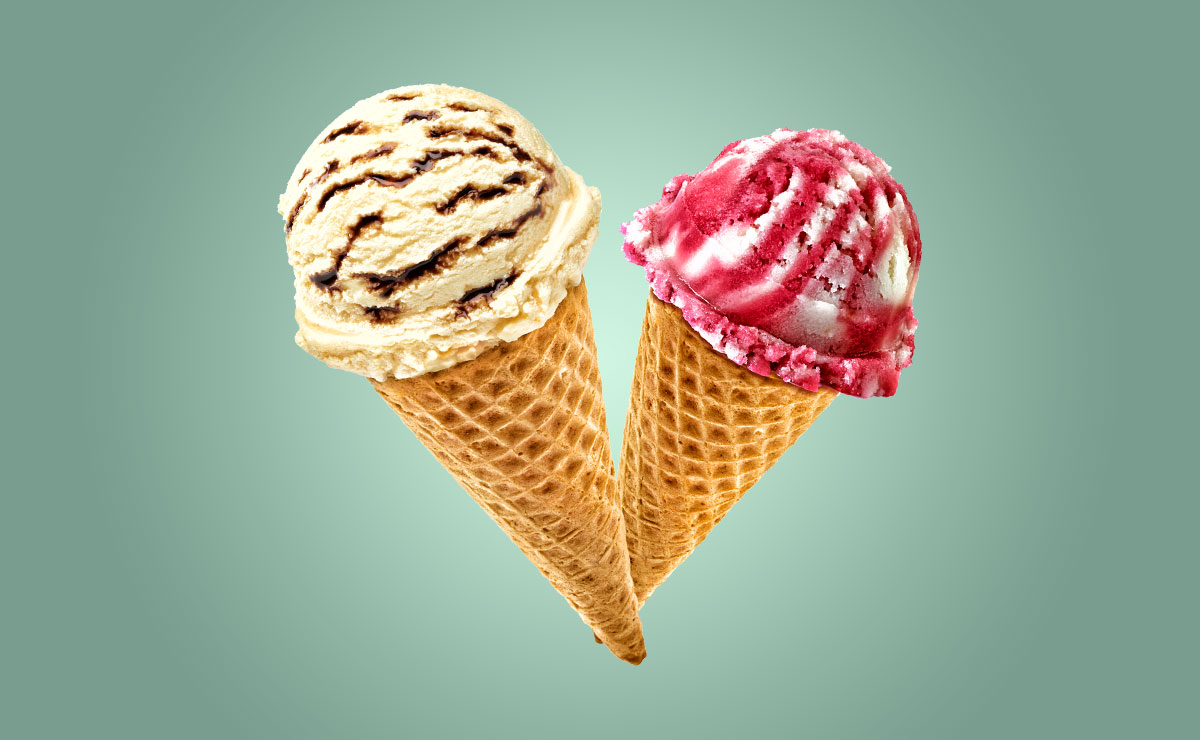
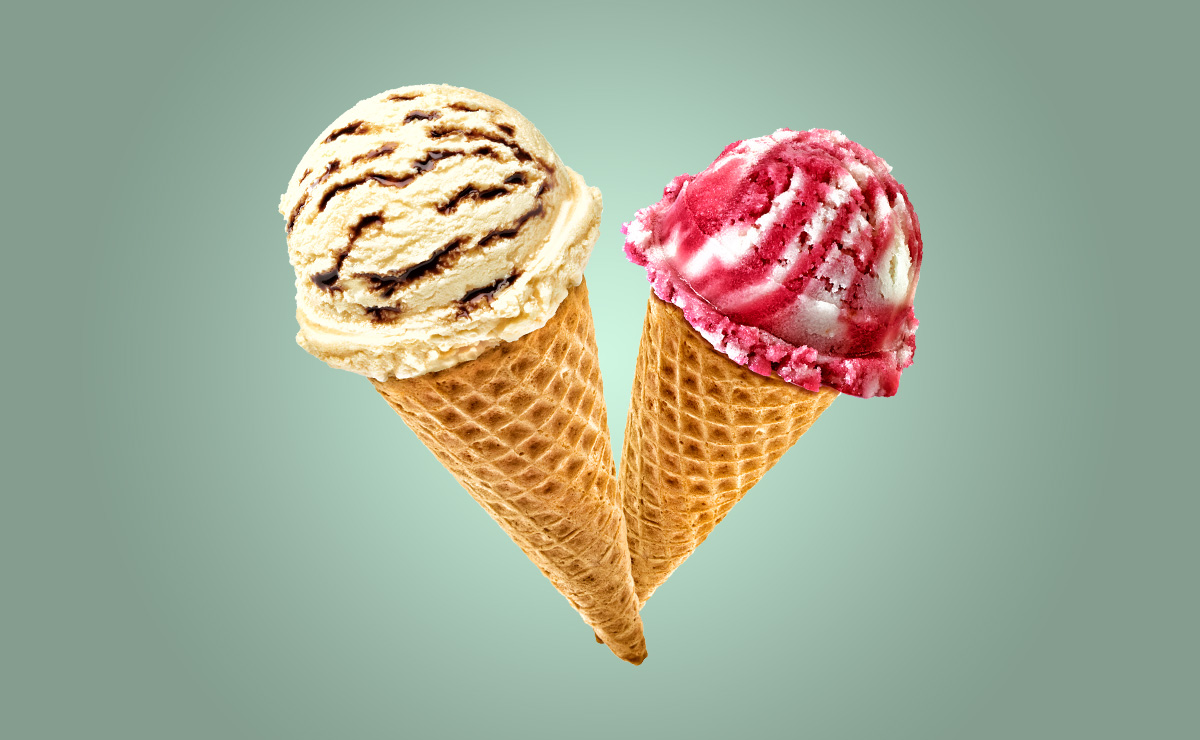
заменила картинку для слайдера

Changed region(s): [[0.2158, 0.1243, 0.7708, 0.8703], [0.5242, 0.8703, 0.555, 0.9014]]

diff --git a/css/style.css b/css/style.css
@@ -378,7 +378,7 @@ fieldset {
 .section-slide {
   width: 1200px;
   height: 740px;
-  background: url("../img/slider.png") no-repeat #849d8f;
+  background: url("../img/bg-slider.jpg") no-repeat #849d8f;
 }
 
 
